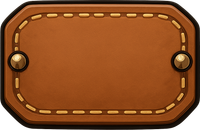
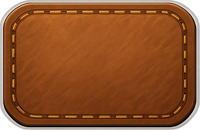
The tag's rivets were round, and the fire's picker was in the flow
Both off a phone, both Luke's.

"THE TAG SPRITE'S RING IS DEFORMED." The rivets were symmetric, which is
what the last note about this sprite was careful about — and they were also
ROUND. This is a CSS background stretched to whatever the price measures:
200x130 of drawn leather inside a 54x25 box. A circle under a 3.7:1 squash
is an oval with a dark ring round it, and at that size it reads as a little
knot tied to the side of the tag. Nothing round survives that, so there is
nothing round on it any more: one stitched line running parallel to the
edge, which stretches into a longer line and stays a line. Judged on a sheet
that shows each candidate AT the squashed size, because that is the only
size this asset is ever seen at.

"THIS SHOULD BE A MODAL ON TOP." The fire's card picker was appended to the
stage, so opening it pushed the fire off the top of the screen and put a
twelve-card grid under the buttons: you scrolled a room to read your own
deck and the bottom row was cut by the fold. Every other "choose one of
these" in this game is already over the room — the shop's look, the map's
deck, the fight's piles — so this one is too, with the scrim closing it like
all of them. Its header is sticky and carries the way out, because a close
button under twelve cards is a button you have to go looking for.

Left alone deliberately: Luke is mid-run as this ships (stop 6, at a
campfire), so nothing was parked to photograph the shop's new tag. The
[…]

diff --git a/src/components/cards/CardRoom.js b/src/components/cards/CardRoom.js
@@ -207,11 +207,29 @@ export default function CardRoom({ run, art = {} }) {
                     </div>
                 ) : null}
 
-                {/* Real cards, for the same reason the burn picker draws them: choosing which copy of Bite
-                    becomes the good one off a list of names is choosing blind. */}
+                {/* ── THE DECK, OVER THE ROOM ────────────────────────────────────────────────────────
+                    Real cards, for the same reason the burn picker draws them: choosing which copy of Bite
+                    becomes the good one off a list of names is choosing blind.
+
+                    ⚠ A MODAL, NOT A PANEL IN THE FLOW. Luke, on a phone with the picker open: "this should
+                    be a modal on top." It was appended to the stage, so opening it pushed the fire off the
+                    top of the screen and put a twelve-card grid under the buttons — you scrolled a room to
+                    read your own deck, and the bottom row was cut by the fold. Every other "choose one of
+                    these" in this game is over the room: the shop's look, the map's deck, the fight's piles.
+                    Tapping the scrim closes it, which is the gesture all of those already answer to. */}
                 {picking && !done ? (
-                    <div className="cr-pick" role="dialog" aria-label="Choose a card to sharpen">
-                        <p className="cr-pick-head">Hold one in the fire.</p>
+                    <div className="cr-pick-over" onClick={() => setPicking(false)} role="presentation">
+                    <div className="cr-pick" role="dialog" aria-label="Choose a card to sharpen"
+                        onClick={(e) => e.stopPropagation()}>
+                        {/* ⚠ THE WAY OUT STAYS ON SCREEN. A twelve-card deck fills the panel and the panel
+                            scrolls, so a close button at the BOTTOM is a button you have to go looking for —
+                            the scrim closes it too, but a scrim is not a thing anybody is told about. */}
+                        <div className="cr-pick-bar">
+                            <p className="cr-pick-head">Hold one in the fire.</p>
+                            <button type="button" className="cr-pick-close" onClick={() => setPicking(false)}>
+                                Never mind
+                            </button>
+                        </div>
                         <div className="cr-pick-deck">
                             {deck.map((id, i) => {
                                 const c = cardById(id);
@@ -227,6 +245,7 @@ export default function CardRoom({ run, art = {} }) {
                                 );
                             })}
                         </div>
+                    </div>
                     </div>
                 ) : null}
             </div>
@@ -314,11 +333,23 @@ export default function CardRoom({ run, art = {} }) {
 
                 .cr-choices { display: flex; flex-wrap: wrap; gap: 8px; justify-content: center; }
                 /* ── WHICH CARD GOES IN THE COALS ── */
-                .cr-pick { width: 100%; margin-top: 8px; padding: 10px; border-radius: 10px;
-                    background: rgba(8,9,12,0.86); box-shadow: inset 0 0 0 1px rgba(255,180,94,0.18); }
-                .cr-pick-head { margin: 0 0 8px; text-align: center; font-size: 13px; color: #ffcf9a; }
-                .cr-pick-deck { display: flex; flex-wrap: wrap; justify-content: center; gap: 8px;
-                    max-height: 42vh; overflow-y: auto; }
+                .cr-pick-over { position: fixed; inset: 0; z-index: 4100; display: grid; place-items: center;
+                    padding: 14px; background: rgba(4,5,8,0.88); }
+                .cr-pick { width: min(560px, 100%); max-height: 84dvh; overflow-y: auto; padding: 14px;
+                    display: grid; gap: 10px; justify-items: center; border-radius: 12px;
+                    background: rgba(12,15,21,0.97); border: 1px solid rgba(201,162,83,0.35);
+                    box-shadow: 0 18px 50px rgba(0,0,0,0.7); }
+                .cr-pick-bar { position: sticky; top: -14px; z-index: 2; align-self: stretch;
+                    display: flex; align-items: center; justify-content: space-between; gap: 10px;
+                    margin: -14px -14px 0; padding: 12px 14px;
+                    background: rgba(12,15,21,0.98); border-bottom: 1px solid rgba(201,162,83,0.22); }
+                .cr-pick-close { padding: 6px 14px; border-radius: 999px; cursor: pointer;
+                    border: 2px solid #c9a253; background: rgba(18,22,30,0.92); color: #f2e2bd;
+                    font: inherit; font-size: 12.5px; font-weight: 700; white-space: nowrap; }
+                .cr-pick-head { margin: 0; text-align: left; font-size: 14px; color: #ffcf9a; }
+                /* The panel scrolls, not the grid inside it — a scroller inside a scroller on a phone is
+                   two things that both eat the same drag. */
+                .cr-pick-deck { display: flex; flex-wrap: wrap; justify-content: center; gap: 8px; }
                 .cr-card { padding: 0; border: 0; background: none; cursor: pointer; }
                 .cr-card:disabled { cursor: default; }
                 /* A copy that has already been to the fire is still SHOWN — a deck with its upgrades hidden is
